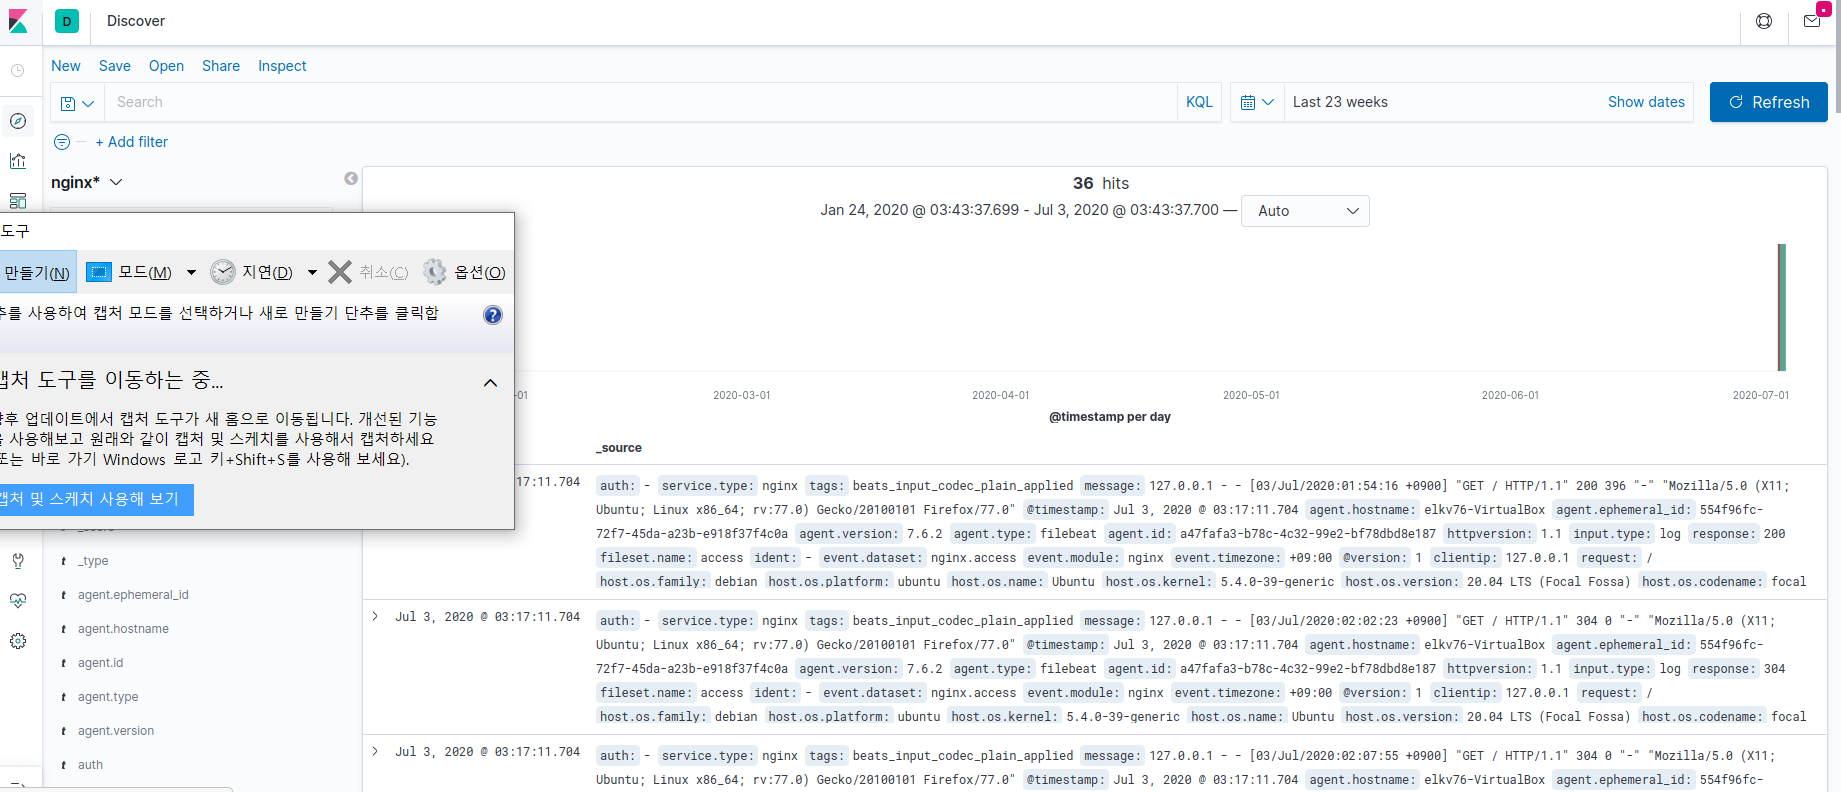
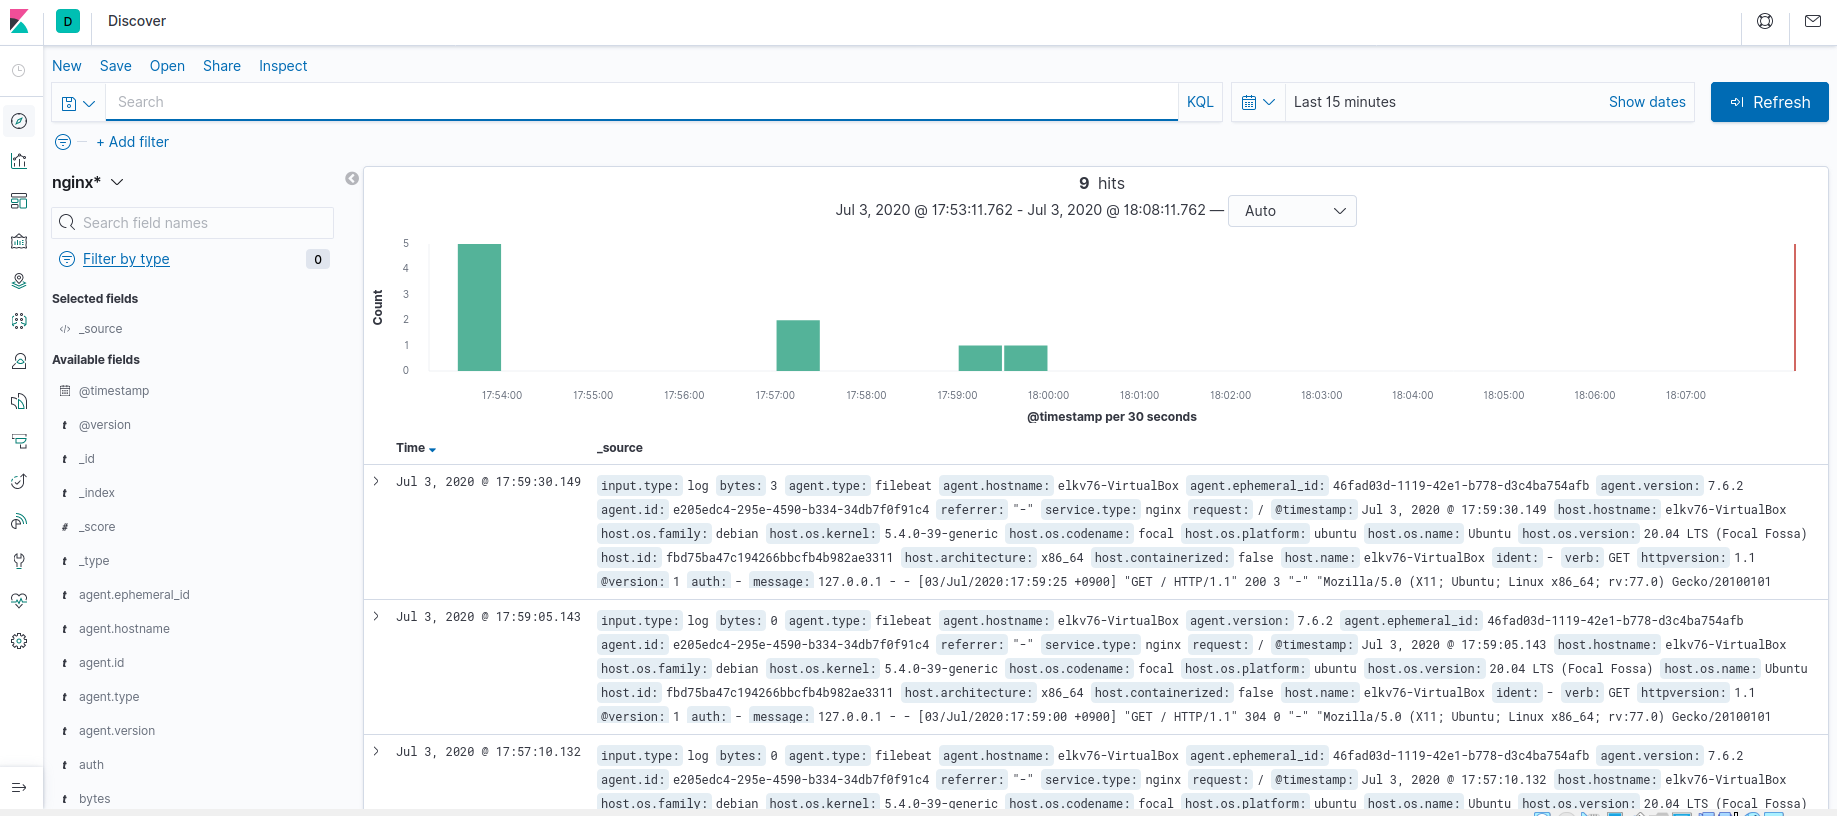
feat: nginx

diff --git a/content/ko/docs-7.6/웹 서버/nginx.md b/content/ko/docs-7.6/웹 서버/nginx.md
@@ -1,4 +1,6 @@
-```
+
+
+
 ---
 title: "엔진엑스"
 linkTitle: "엔진엑스"
@@ -8,14 +10,10 @@ date: 2020-05-20
 description: >
   엔진엑스의 로그를 통합하는 방법에 대해 설명합니다.
 ---
- 
 
- 
 ## 엔진엑스 로그 통합 관리하기
 
  앞서 설치한 ELK 스택에 엔진엑스의 로그를 통합해서 관리할 수 있습니다. 엔진엑스 로그를 통합 관리하는 방법에 대해 알아보도록 하겠습니다.
-
-
 
 ## 엔진엑스 웹 로그 종류
 
@@ -46,21 +44,20 @@ description: >
 - access_log
 
   ```
-  # [원격지 호스트] [원격지 사용자 이름] [인증이 요청된 원격 사용자 이름] [요청한 시간과 날짜] [HTTP 메소드를 포함한 요청의 첫 라인] [HTTP 상태 코드] [헤더를 제외한 전송된 크기] [원격지 사용자 pc환경] [방문자가 사용한 브라우저]
-  196.52.43.100 - - [29/May/2020:02:17:41 +0900] "GET / HTTP/1.1" 200 396 "-" "Mozilla/5.0 (Windows NT 10.0; Win64; x64) AppleWebKit/537.36 (KHTML, like Gecko) Chrome/57.0.2987.133 Safari/537.36"
+  # [원격지 호스트] [원격지 사용자 이름] [인증이 요청된 원격 사용자 이름] [요청한 시간과 날짜] [HTTP 메소드를 포함한 요청의 첫 라인] [HTTP 상태 코드] [헤더를 제외한 전송된 크기] [이전 페이지 URL] [HTTP 요청에 사용된 브라우저 타입] [원격지 사용자가 사용한 브라우저]
+  127.0.0.1 - - [03/Jul/2020:17:33:11 +0900] "GET / HTTP/1.1" 304 0 "-" "Mozilla/5.0 (X11; Ubuntu; Linux x86_64; rv:77.0) Gecko/20100101 Firefox/77.0"
   ```
 
-   access_log에서는 얻어낼 정보가 많은 것 같습니다. 원격지 호스트를 이용해서 요청한 사람의 위치를 알아낼 수 있고, 어떤 페이지에 어떤 메소드로 요청이 많이 오는지 알 수 있습니다. 어떤 시간이나 어떤 분기에 요청이 많이 들어오는지 분석해서 서버를 스케일 다운/업, 인/아웃 할 지 결정할 수 있고, 요청의 크기를 통해 공격인이 아닌지도 어느 정도 예측이 가능할 것 같습니다.
+   access_log에서는 얻어낼 정보가 많은 것 같습니다. 원격지 호스트를 이용해서 요청한 사람의 위치를 알아낼 수 있고, 어떤 페이지에 어떤 메소드로 요청이 많이 오는지 알 수 있습니다. 어떤 시간이나 어떤 분기에 요청이 많이 들어오는지 분석해서 서버를 스케일 다운/업, 인/아웃 할 지 결정할 수 있고, 요청의 크기를 통해 공격인이 아닌지도 어느 정도 예측이 가능할 것 같습니다.  
 
 - error_log
 
   ```
   # [요청한 시간과 날짜] [에러 레벨] [pid] [client [IP:Port]] [로그 메시지]
-  [Fri May 26 04:13:58.570775 2020] [php7:notice] [pid 2093] [client ::1:56854] PHP Notice:  Undefined variable: remember in /srv/http/getSalt.php on line 13, referer: http://localhost:3000
+  [Fri May 26 04:13:58.570775 2020] [php7:notice] [pid 2093] [client ::1:56854] PHP Notice:  Undefined variable: remember in /srv/http/getSalt.php on line 13, referer: http://localhost:3000/~120140261/app/login
   ```
 
   반면 error_log에서는 사실 분석을 자동화하기는 힘들 것 같습니다. 공격을 시도하는 방법은 셀 수 없을 정도로 여러 방법이 있고 어떠한 에러가 발생할지 예측하기는 사실 힘듭니다. 다만 에러 레벨을 통해 크리티컬한 에러들을 모아서 따로 분석할 수 있을 것 같습니다. 또는 에러 레벨로 1차적으로 뽑아낸 로그 메시지들의 분석을 자동화할 수 있을 것 같습니다.
-  
 
 ## Filebeat 설치 및 설정
 
@@ -70,15 +67,15 @@ description: >
 
 1. [Elastic 홈페이지](https://elastic.co) 접속 후 우측 위에 있는 **무료로 시작**을 클릭합니다.
 
-   ![elastic-home](/images/elastic-home.png)
-   
+   ![Elastic 홈페이지](/images/elastic-home.png)
+
 2. Beats의 **다운로드** 버튼을 클릭합니다.
 
-   ![filebeat-download-1](/images/7.6/filebeat-download-1.png)
+   ![Filebeat 다운로드 1](/images/7.6/filebeat-download-1.png)
 
 3. Filebeat의 **다운로드** 버튼을 클릭합니다.
 
-   ![filebeat-download-2](/images/7.6/filebeat-download-2.png)
+   ![Filebeat 다운로드 2](/images/7.6/filebeat-download-2.png)
 
 4. 버전을 확인하고 운영체제에 맞는 파일을 다운로드합니다.
 
@@ -112,13 +109,13 @@ description: >
            </tr>
        </tbody>
    </table>
-   
 
-   ![filebeat-download-3](/images/7.6/filebeat-download-3.png)
+
+   ![Filebeat 다운로드 3](/images/7.6/filebeat-download-3.png)
 
 5. 이전 버전을 설치하고 싶다면 아래에 있는 **past releases** 링크를 클릭해서 맞는 버전을 다운로드합니다.
 
-   ![filebeat-download-4](/images/7.6/filebeat-download-4.png)
+   ![Filebeat 다운로드 3](/images/7.6/filebeat-download-4.png)
 
 6. 패키지 관리자로 다운로드한 Filebeat를 설치합니다.
 
@@ -139,7 +136,7 @@ description: >
    sudo zypper install ./filebeat-버전-아키텍처.rpm
    ```
 
-7. Filebeat의 Nginx 모듈을 활성화 합니다. 설정에서 기본 false인 reload.enable을 true로 바꿔줍니다.
+7. Filebeat의 Nginx 모듈 활성 합니다. 설정에서 기본 false인 reload.enable을 true로 바꿔줍니다.
 
    ```yaml
    # /etc/filebeat/filebeat.yml
@@ -162,8 +159,8 @@ description: >
    ```
 
     Filebeat는 OS를 감지해서 엔진엑스 로그의 위치를 결정합니다. 만약 로그의 위치를 바꿨거나 여러 개의 로그를 읽어오고 싶다면 Nginx 모듈 설정을 변경해서 로그의 위치를 알려줘야 합니다.
-
-   ```yml
+    
+```yaml
    # /etc/filebeat/modules.d/nginx.yml
    
    # Module: nginx
@@ -185,7 +182,9 @@ description: >
        # Set custom paths for the log files. If left empty,
        # Filebeat will choose the paths depending on your OS.
        var.paths: ["[경로]"...]
-   ```
+  ```
+
+   
 
 8. Filebeat에서 읽은 데이터를 Logstash로 보내도록 설정합니다. Elasticsearch output 관련 설정을 주석 처리하고 Logstash output 관련 설정을 주석 해제하면 됩니다.
 
@@ -224,15 +223,13 @@ description: >
      #ssl.key: "/etc/pki/client/cert.key"
    ```
 
-
-
 ## Logstash 설정
 
  앞서 Logstash를 설치했지만 Logstash의 설정은 어떤 데이터를 처리하느냐에 따라 달라지기 때문에 하지 않았습니다. Nginx의 로그 데이터를 가공해서 Elasticsearch 저장할 수 있도록 Logstash를 설정합니다.
 
 1. 5044포트에 Filebeat로부터 데이터를 입력받아 Nginx에 맞게 데이터를 가공해서 Elasticsearch의 nginx index에 저장하도록 설정합니다.
 
-```
+```
 # /etc/logstash/conf.d/logstash.conf
 
 input {
@@ -244,50 +241,82 @@ input {
 filter {
   if [event][module] == "nginx" {
     if [fileset][name] == "access" {
-		grok {
-        	match => { "message" => "%{COMBINEDAPACHELOG}" }
+      grok {
+        match => { "message" => ["%{IPORHOST:[nginx][access][remote_ip]} - %{DATA:[nginx][access][user_name]} \[%{HTTPDATE:[nginx][access][time]}\] \"%{WORD:[nginx][access][method]} %{DATA:[nginx][access][url]} HTTP/%{NUMBER:[nginx][access][http_version]}\" %{NUMBER:[nginx][access][response_code]} %{NUMBER:[nginx][access][body_sent][bytes]}( \"%{DATA:[nginx][access][referrer]}\")?( \"%{DATA:[nginx][access][agent]}\")?",
+          "%{IPORHOST:[nginx][access][remote_ip]} - %{DATA:[nginx][access][user_name]} \\[%{HTTPDATE:[nginx][access][time]}\\] \"-\" %{NUMBER:[nginx][access][response_code]} -" ] }
+        remove_field => "message"
+      }
+      mutate {
+        add_field => { "read_timestamp" => "%{@timestamp}" }
+      }
+      date {
+        match => [ "[nginx][access][time]", "dd/MMM/YYYY:H:m:s Z" ]
+        remove_field => "[nginx][access][time]"
+      }
+      useragent {
+        source => "[nginx][access][agent]"
+        target => "[nginx][access][user_agent]"
+        remove_field => "[nginx][access][agent]"
+      }
+      geoip {
+        source => "[nginx][access][remote_ip]"
+        target => "[nginx][access][geoip]"
+      }
+    }
+    else if [fileset][name] == "error" {
+      grok {
+        match => { "message" => ["\[%{NGINX_TIME:[nginx][error][timestamp]}\] \[%{LOGLEVEL:[nginx][error][level]}\]( \[client %{IPORHOST:[nginx][error][client]}\])? %{GREEDYDATA:[nginx][error][message]}",
+          "\[%{APACHE_TIME:[nginx][error][timestamp]}\] \[%{DATA:[nginx][error][module]}:%{LOGLEVEL:[nginx][error][level]}\] \[pid %{NUMBER:[nginx][error][pid]}(:tid %{NUMBER:[nginx][error][tid]})?\]( \[client %{IPORHOST:[nginx][error][client]}\])? %{GREEDYDATA:[nginx][error][message1]}" ] }
+        pattern_definitions => {
+          "NGINX_TIME" => "%{DAY} %{MONTH} %{MONTHDAY} %{TIME} %{YEAR}"
         }
+        remove_field => "message"
+      }
+      mutate {
+        rename => { "[nginx][error][message1]" => "[nginx][error][message]" }
+      }
+      date {
+        match => [ "[nginx][error][timestamp]", "EEE MMM dd H:m:s YYYY", "EEE MMM dd H:m:s.SSSSSS YYYY" ]
+        remove_field => "[nginx][error][timestamp]"
+      }
     }
   }
 }
 output {
-    elasticsearch {
+  elasticsearch {
     hosts => localhost
     manage_template => false
     index => "nginx"
   }
 }
-```
-
+```
 
 ## Index 초기 설정
 
- Elasticsearch에 데이터를 저장하면 기본 keyword(string) 형식으로 들어갑니다. 시간, 위치, 숫자 형식 등의 특별한 형식을 집어넣기 위해선 해당 index에 초기 설정을 해야합니다. 아래는 Nginx의 로그 데이터를 저장하기 위해서 index의 초기 설정을 하는 방법입니다.
+ Logstash와 Filebeat를 실행해서 데이터를 저장하기 전에 위치 정보 같은 특별한 정보들은 Elasticsearch에서 제대로 인식할 수 있도록 미리 설정해야합니다. 
 
-1. 연결된 Elasticsearch에 index 초기 설정 쿼리를 보냅니다.
+1. Kibana에 접속해서 Explore my own 링크를 클릭합니다.
 
-3. ```
+   ![Kibana main](/images/7.6/kibana-start.png)
+
+2. Kibana의 왼쪽 메뉴에서 Dev Tools 버튼을 클릭합니다.
+
+   ![Kibana dev tools 1](/images/7.6/kibana-dev-tool.png)
+
+3. 연결된 Elasticsearch에 아래 쿼리를 실행해서 위치 정보에 대한 초기 설정을 진행합니다.
+
+   ```
    PUT nginx
    {
-     "mappings": { 
+     "mappings" : { 
        "properties": {
-         "nginx.access.geoip.location": { 
-           "type": "geo_point"
-         },
-         "nginx.access.time" : {
-           "type": "date"
-         },
-         "nginx.access.response_code": { 
-           "type": "integer"
-         },
-         "nginx.error.timestamp": {
-           "type": "date"
+         "apache2.access.geoip.location" : { 
+           "type" : "geo_point"
          }
        }
      }
    }
    ```
-
 
 ## Logstash, Filebeat 실행
 
@@ -295,18 +324,13 @@ output {
 sudo systemctl enable --now logstash filebeat
 ```
 
-
 ## Index 패턴 생성
 
  Elasticsearch에서 저장된 데이터를 사용하기 전에 index 식별과 필드의 설정을 위해서 반드시 index 패턴을 생성해야 합니다. 아래는 위 설정으로 저장된 Nginx의 로그 데이터 index의 index 패턴을 생성하는 방법입니다.
 
-1. Kibana에 접속해서 Explore my own 링크를 클릭합니다.
-
-   ![kibana-start-1](/images/7.6/kibana-start-1.png)
-
 2. Kibana의 왼쪽 메뉴에서 Dev Tools 버튼을 클릭합니다.
 
-   ![kibana-dev-tool](/images/7.6/kibana-dev-tool.png)
+   ![Kibana dev tools 1](/images/7.6/kibana-dev-tool.png)
 
 3. 연결된 Elasticsearch에 데이터가 정상적으로 저장되고 있는지 확인하는 쿼리를 보냅니다. 하나 이상의 document라도 있다면 데이터의 입력이 시작된 것입니다.
 
@@ -314,28 +338,20 @@ sudo systemctl enable --now logstash filebeat
    GET nginx/_count
    ```
 
-   ![kibana-make-pattern-2](/images/7.6/nginx-1.png)
+   ![Kibana dev tools 1](/images/7.6/nginx-1.png)
 
 4. 다음과 같이 document의 개수가 확인되었다면 index 패턴을 생성하기 위해 왼쪽 메뉴에서 Management 버튼을 클릭합니다. 그 후 Kibana 아래 Index Patterns 버튼을 클릭합니다.
 
-   ![kibana-make-pattern-3](/images/7.6/kibana-make-pattern-3.png)
-
-   ![kibana-make-pattern-4](/images/7.6/kibana-make-pattern-4.png)
-
 5. Create index pattern 버튼을 클릭해서 index 패턴 생성을 시작합니다.
-
-    ![kibana-make-pattern-5](/images/7.6/kibana-make-pattern-5.png)
 
 6. Index 이름을 입력하고 Next step을 클릭합니다. 와일드카드 문자도 사용 가능합니다.
 
 7. @timestamp로 시간 필터 필드를 설정 후 Create index pattern 버튼을 클릭합니다.
 
-
 ## Document 확인하기
 
 1. 생성된 index 패턴을 확인한 뒤 저장된 데이터를 보기 위해서 왼쪽 메뉴에서 Discover를 클릭합니다.
 
-2. 오른쪽 위 시간 필터를 보면 기본으로 최근 15분의 데이터를 불러옵니다. 하지만 최근 15분의 데이터가 없기 때문에 아무것도 보이지 않습니다. 시간 필터를 조절해서 데이터를 확인할 수 있습니다.
+2. 오른쪽 위 시간 필터를 보면 기본으로 최근 15분의 데이터를 불러옵니다. 시간 필터를 조절해서 원하는 시간대의 데이터를 확인할 수 있습니다.
 
-   ![kibana-check-index-2](/images/7.6/nginx-2.png)
-```
+   ![Kibana discover 2](/images/7.6/nginx-2.png)
